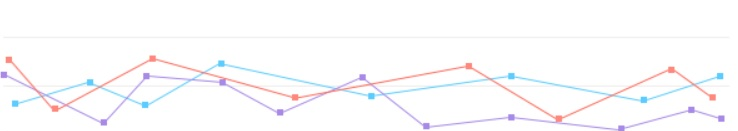
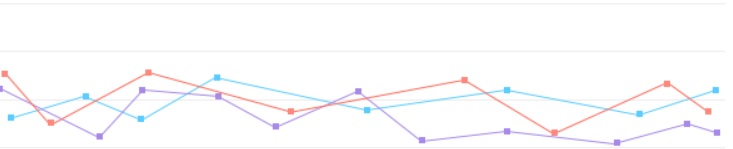
add main header full

diff --git a/index.html b/index.html
@@ -146,6 +146,29 @@
                             </button>
                         </div>
                     </div>
+                    <div class="main__graphics">
+                        <div class="main__graphics-axis-y">
+                            <p class="main__axis-y">400k</p>
+                            <p class="main__axis-y">300k</p>
+                            <p class="main__axis-y">200k</p>
+                            <p class="main__axis-y">100k</p>
+                        </div>
+                        <img class="main__graphics-graphics" src="/source/img/jpg/graphic.jpg" alt="">
+                        <div class="main__graphics-axis-x">
+                            <p class="main__axis-x">Jan</p>
+                            <p class="main__axis-x">Feb</p>
+                            <p class="main__axis-x">Mar</p>
+                            <p class="main__axis-x">Apr</p>
+                            <p class="main__axis-x">May</p>
+                            <p class="main__axis-x">Jun</p>
+                            <p class="main__axis-x">Jul</p>
+                            <p class="main__axis-x">Aug</p>
+                            <p class="main__axis-x">Sep</p>
+                            <p class="main__axis-x">Oct</p>
+                            <p class="main__axis-x">Nov</p>
+                            <p class="main__axis-x">Dec</p>
+                        </div>
+                    </div>
 
 
 

diff --git a/source/style/main.css b/source/style/main.css
@@ -527,6 +527,12 @@ textarea {
   display: -webkit-box;
   display: -ms-flexbox;
   display: flex;
+  -webkit-box-pack: center;
+      -ms-flex-pack: center;
+          justify-content: center;
+  -webkit-box-align: center;
+      -ms-flex-align: center;
+          align-items: center;
   width: 335px;
   height: 35px;
 }
@@ -551,7 +557,7 @@ textarea {
   border: 1px solid;
   border-left: none;
   color: #ECECEC;
-  background: #F8F8F8;
+  background-color: #F8F8F8;
 }
 
 .header__names {
@@ -788,6 +794,55 @@ textarea {
   color: #C4C4C4;
   border-radius: 50px;
   background: #C4C4C4;
+}
+
+.main__graphics {
+  display: -webkit-box;
+  display: -ms-flexbox;
+  display: flex;
+  -ms-flex-wrap: wrap;
+      flex-wrap: wrap;
+  width: 680px;
+  height: 180px;
+  margin-top: 15px;
+}
+
+.main__graphics-axis-y {
+  width: 30px;
+  height: 120px;
+}
+
+.main__axis-y {
+  height: 40px;
+  font-family: 'Lato', sans-serif;
+  font-style: normal;
+  font-weight: normal;
+  font-size: 12px;
+  color: #C4C4C4;
+}
+
+.main__graphics-axis-x {
+  display: -webkit-box;
+  display: -ms-flexbox;
+  display: flex;
+  width: 690px;
+  height: 20px;
+}
+
+.main__axis-x {
+  width: 55px;
+  padding-left: 50px;
+  font-family: 'Lato', sans-serif;
+  font-style: normal;
+  font-weight: normal;
+  font-size: 12px;
+  color: #C4C4C4;
+}
+
+.main__graphics-graphics {
+  width: 650px;
+  height: 120px;
+  padding-left: 20px;
 }
 
 .main__card {

diff --git a/source/scss/components/_main.scss b/source/scss/components/_main.scss
@@ -82,6 +82,59 @@
         border-radius: 50px;
         background: #C4C4C4;;
     }
+    &__graphics {
+        display: flex;
+        flex-wrap: wrap;
+        width: 680px;
+        height: 180px;
+        margin-top: 15px;
+        // padding-left: 50px;
+        
+    }
+
+    &__graphics-axis-y {
+        width: 30px;
+        height: 120px;
+    }
+
+    &__axis-y {
+        height: 40px;
+        @include function;
+        color: #C4C4C4;
+        
+    }
+
+    &__graphics-axis-x {
+        display: flex;
+        width: 690px;
+        height: 20px;
+    }
+
+
+    &__axis-x {
+        width: 55px;
+        padding-left: 50px;
+        @include function;
+        color: #C4C4C4;
+
+    }
+
+    &__graphics-graphics {
+        width: 650px;
+        height: 120px;
+        // padding-top: 20px;
+        padding-left: 20px;
+    }
+
+
+
+
+
+
+
+
+
+
 
 
 

diff --git a/source/scss/components/_header.scss b/source/scss/components/_header.scss
@@ -72,6 +72,8 @@
 
     &__field {
         display: flex;
+        justify-content: center;
+        align-items: center;
         width: 335px;
         height: 35px;
     }
@@ -97,7 +99,8 @@
         border: 1px solid;
         border-left: none;
         color: #ECECEC;
-        background: #F8F8F8;
+        background-color: #F8F8F8;
+        // background: #F8F8F8;
     }
 
     &__names {
